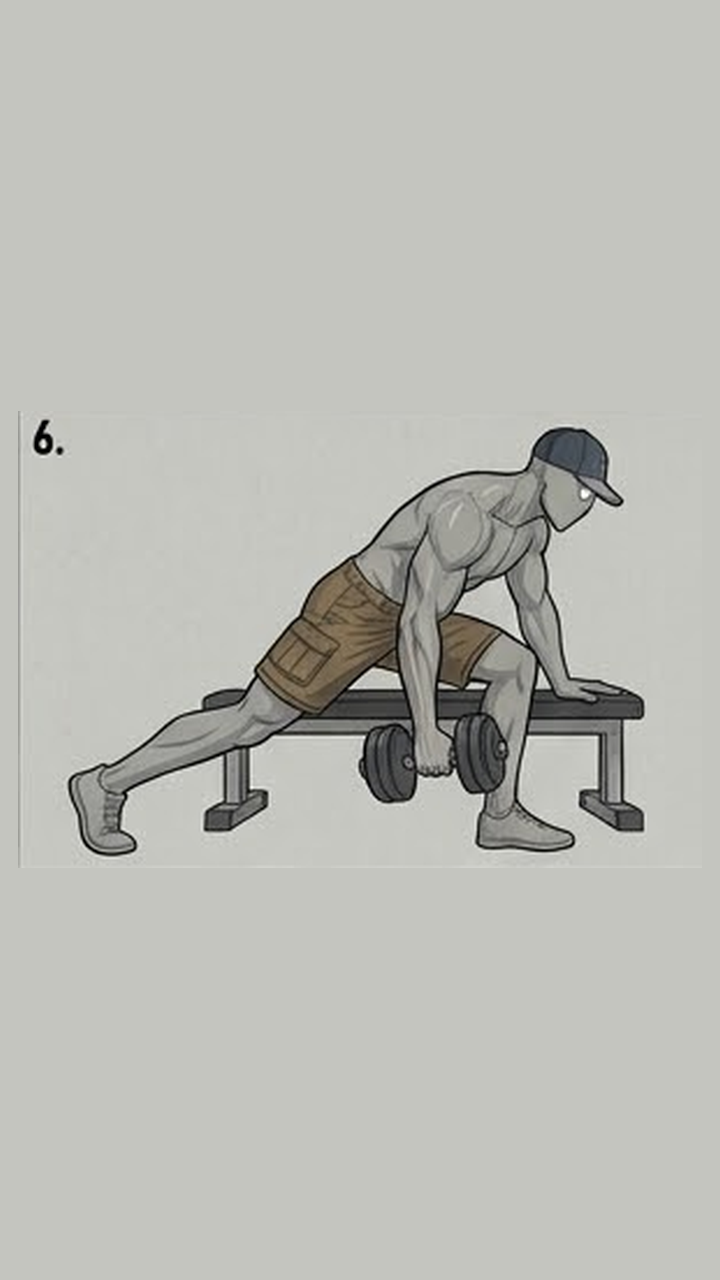
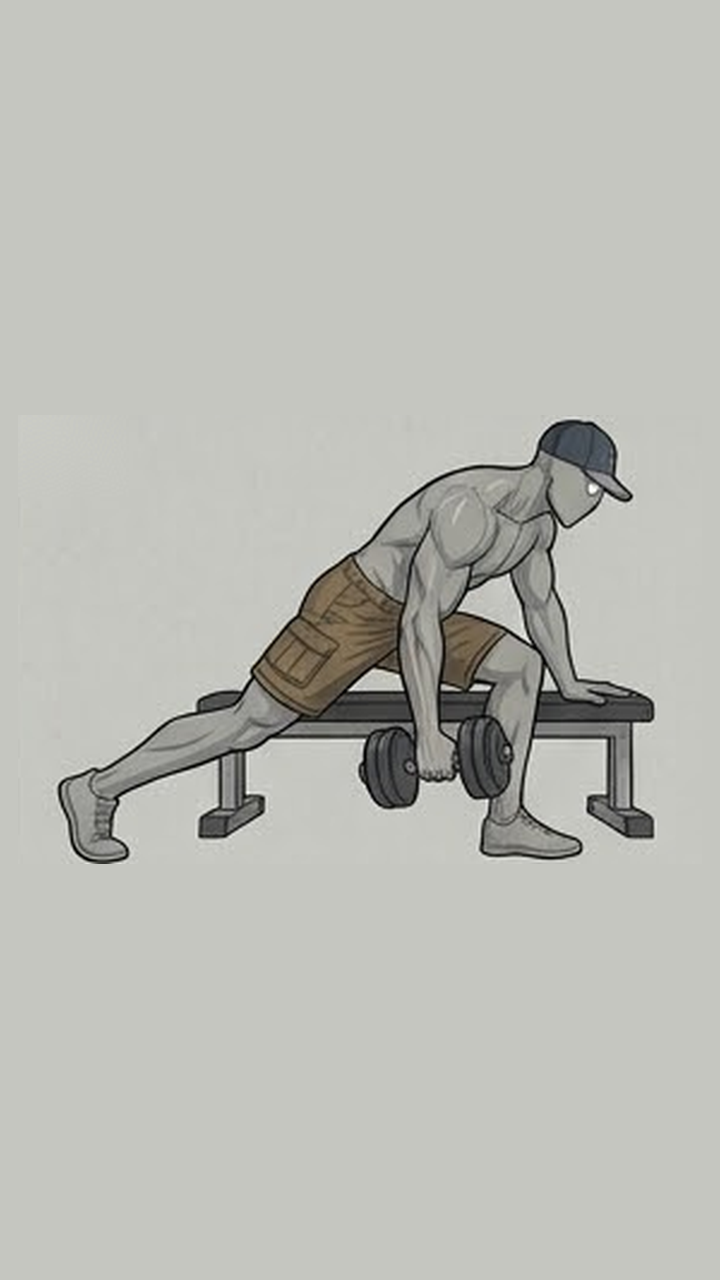
Clean exercise references for The Blanket (no arrows or labels)
Claude-Session: https://claude.ai/code/session_01UQAcntGtU6pmWokpuYzuWe

Changed region(s): [[0.0611, 0.3125, 0.9167, 0.6875], [0.0306, 0.3125, 0.0917, 0.375]]

diff --git a/assets/characters/blanket/README.md b/assets/characters/blanket/README.md
@@ -8,3 +8,10 @@ Scene images are made with `scripts/image_job.py` (entries with `"reference"`), 
 (Apache-2.0) through Hugging Face, then used in a script with `"image_file"`. Keep the face blank apart from the eyes
 (no mouth or nose), no labels or text in the image, and put on-screen figures above the head (`"y": 330`).
 First used in r005.
+
+## Exercise poses (`movements_sheet.jpg`)
+
+`move_<exercise>.png` are cleaned 9:16 references (arrows, panel numbers and borders removed) for scenes that show a
+movement: `pullup`, `squat`, `bench`, `deadlift` (conventional), `pulldown`, `dips`, `row` (one-arm dumbbell), `ohp`
+(overhead press). The movements sheet shows an "S" on the cap; always ask for the letter B. Use `reference_front.png`
+for non-exercise scenes and `reference_anatomy.png` when the narration names specific muscles.
